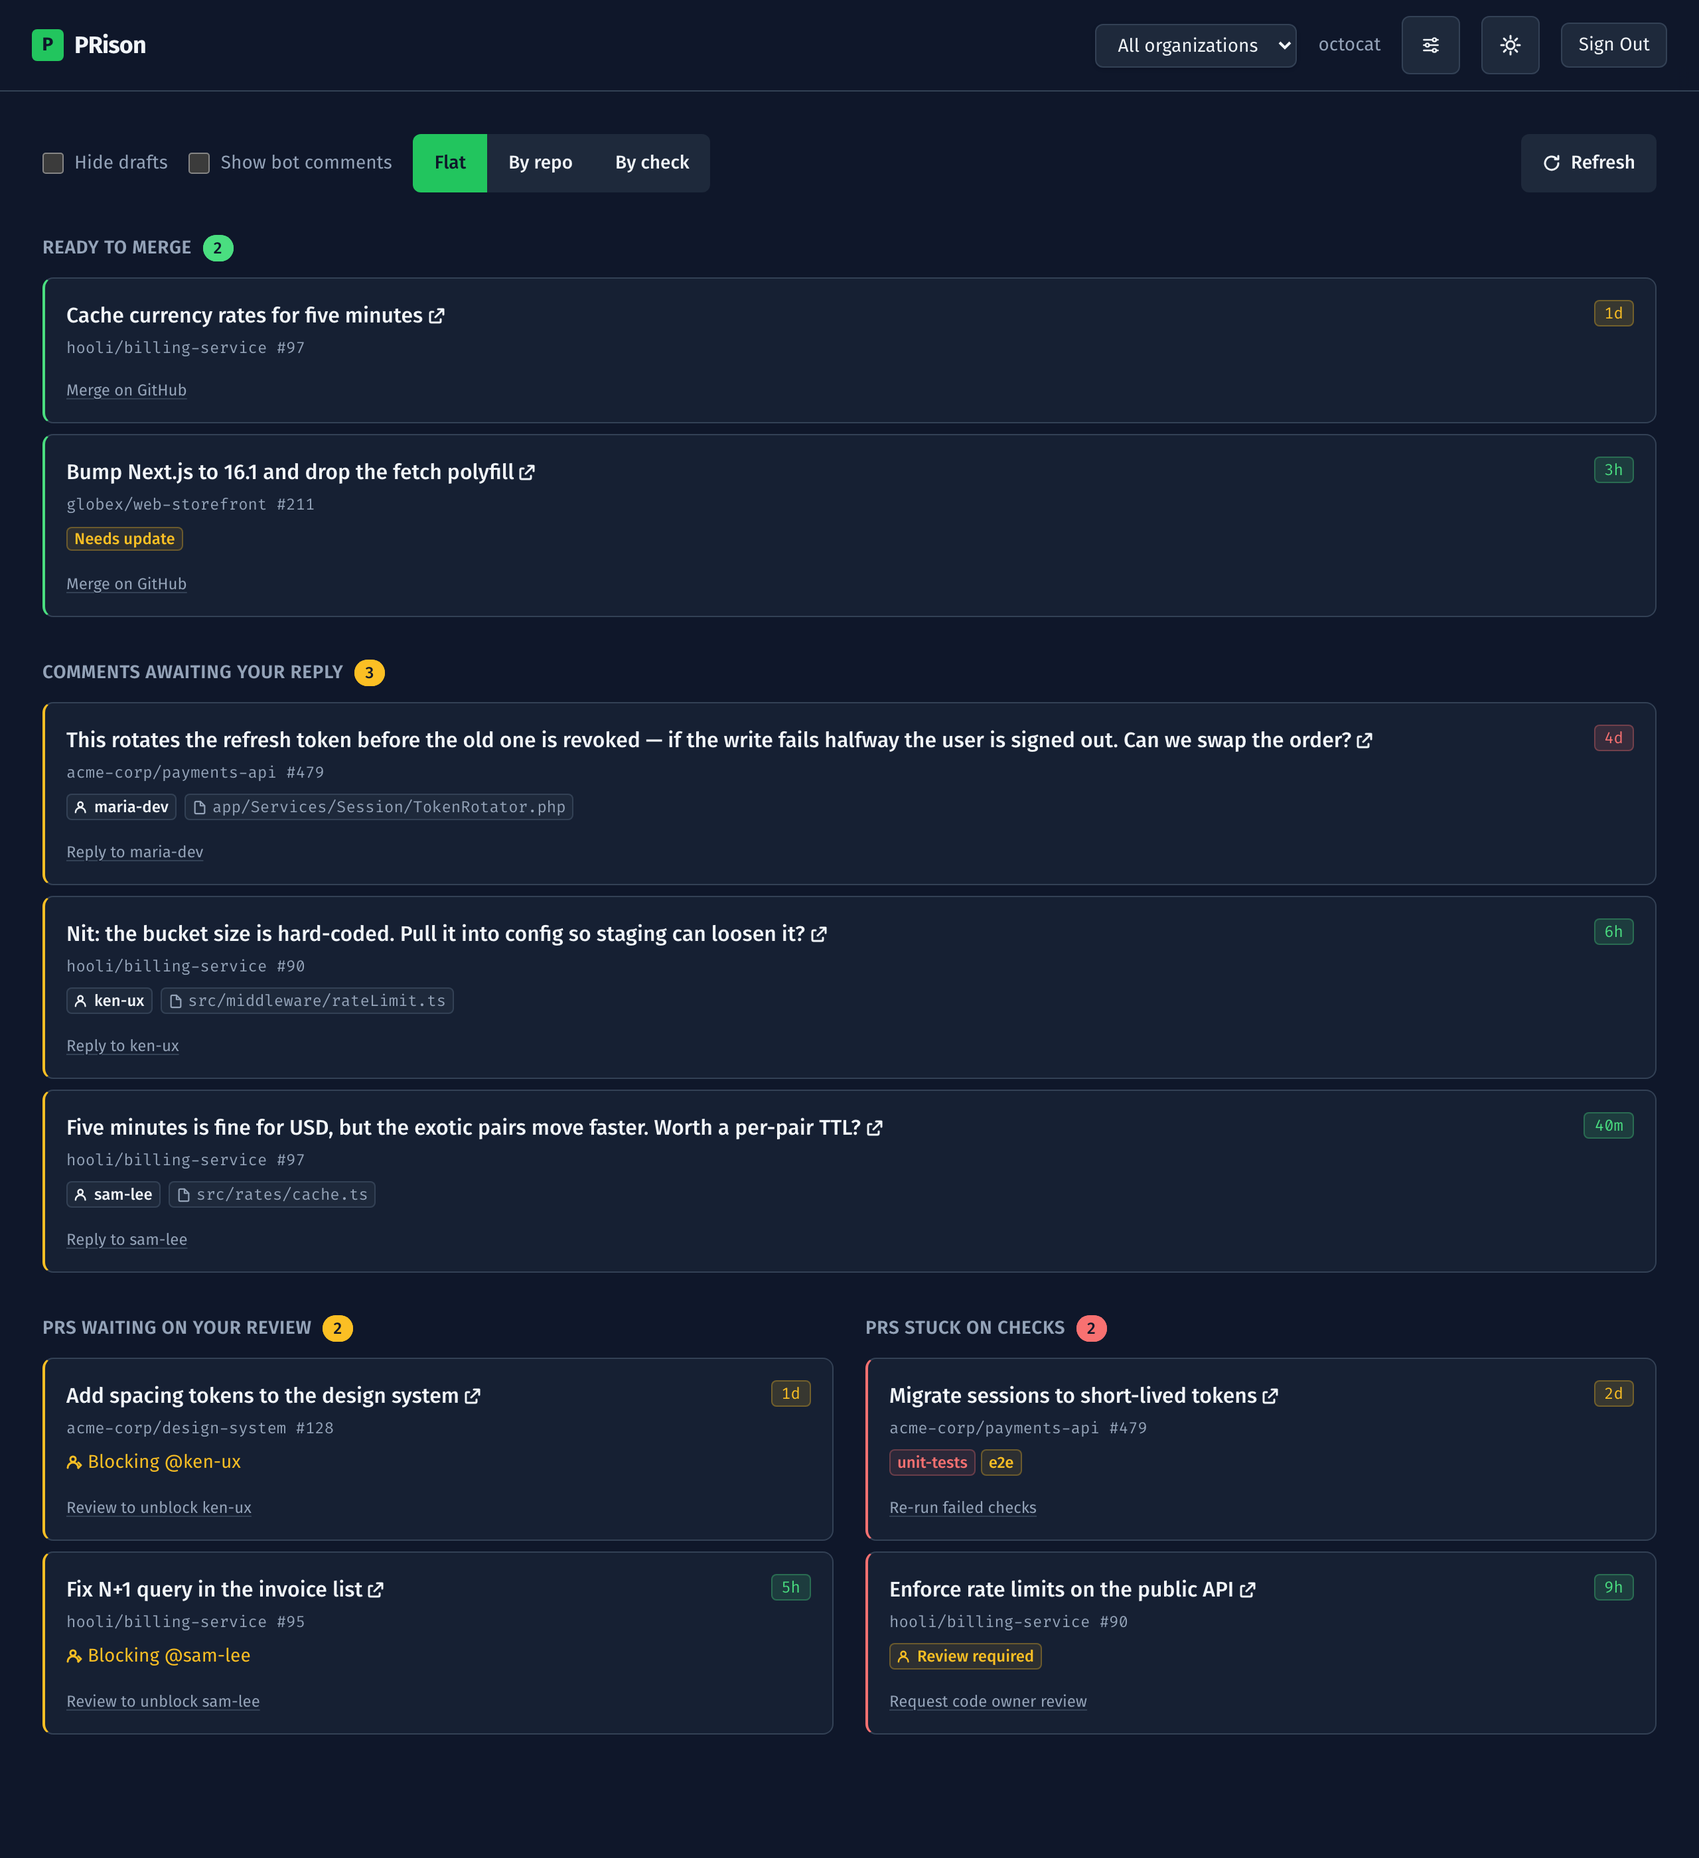
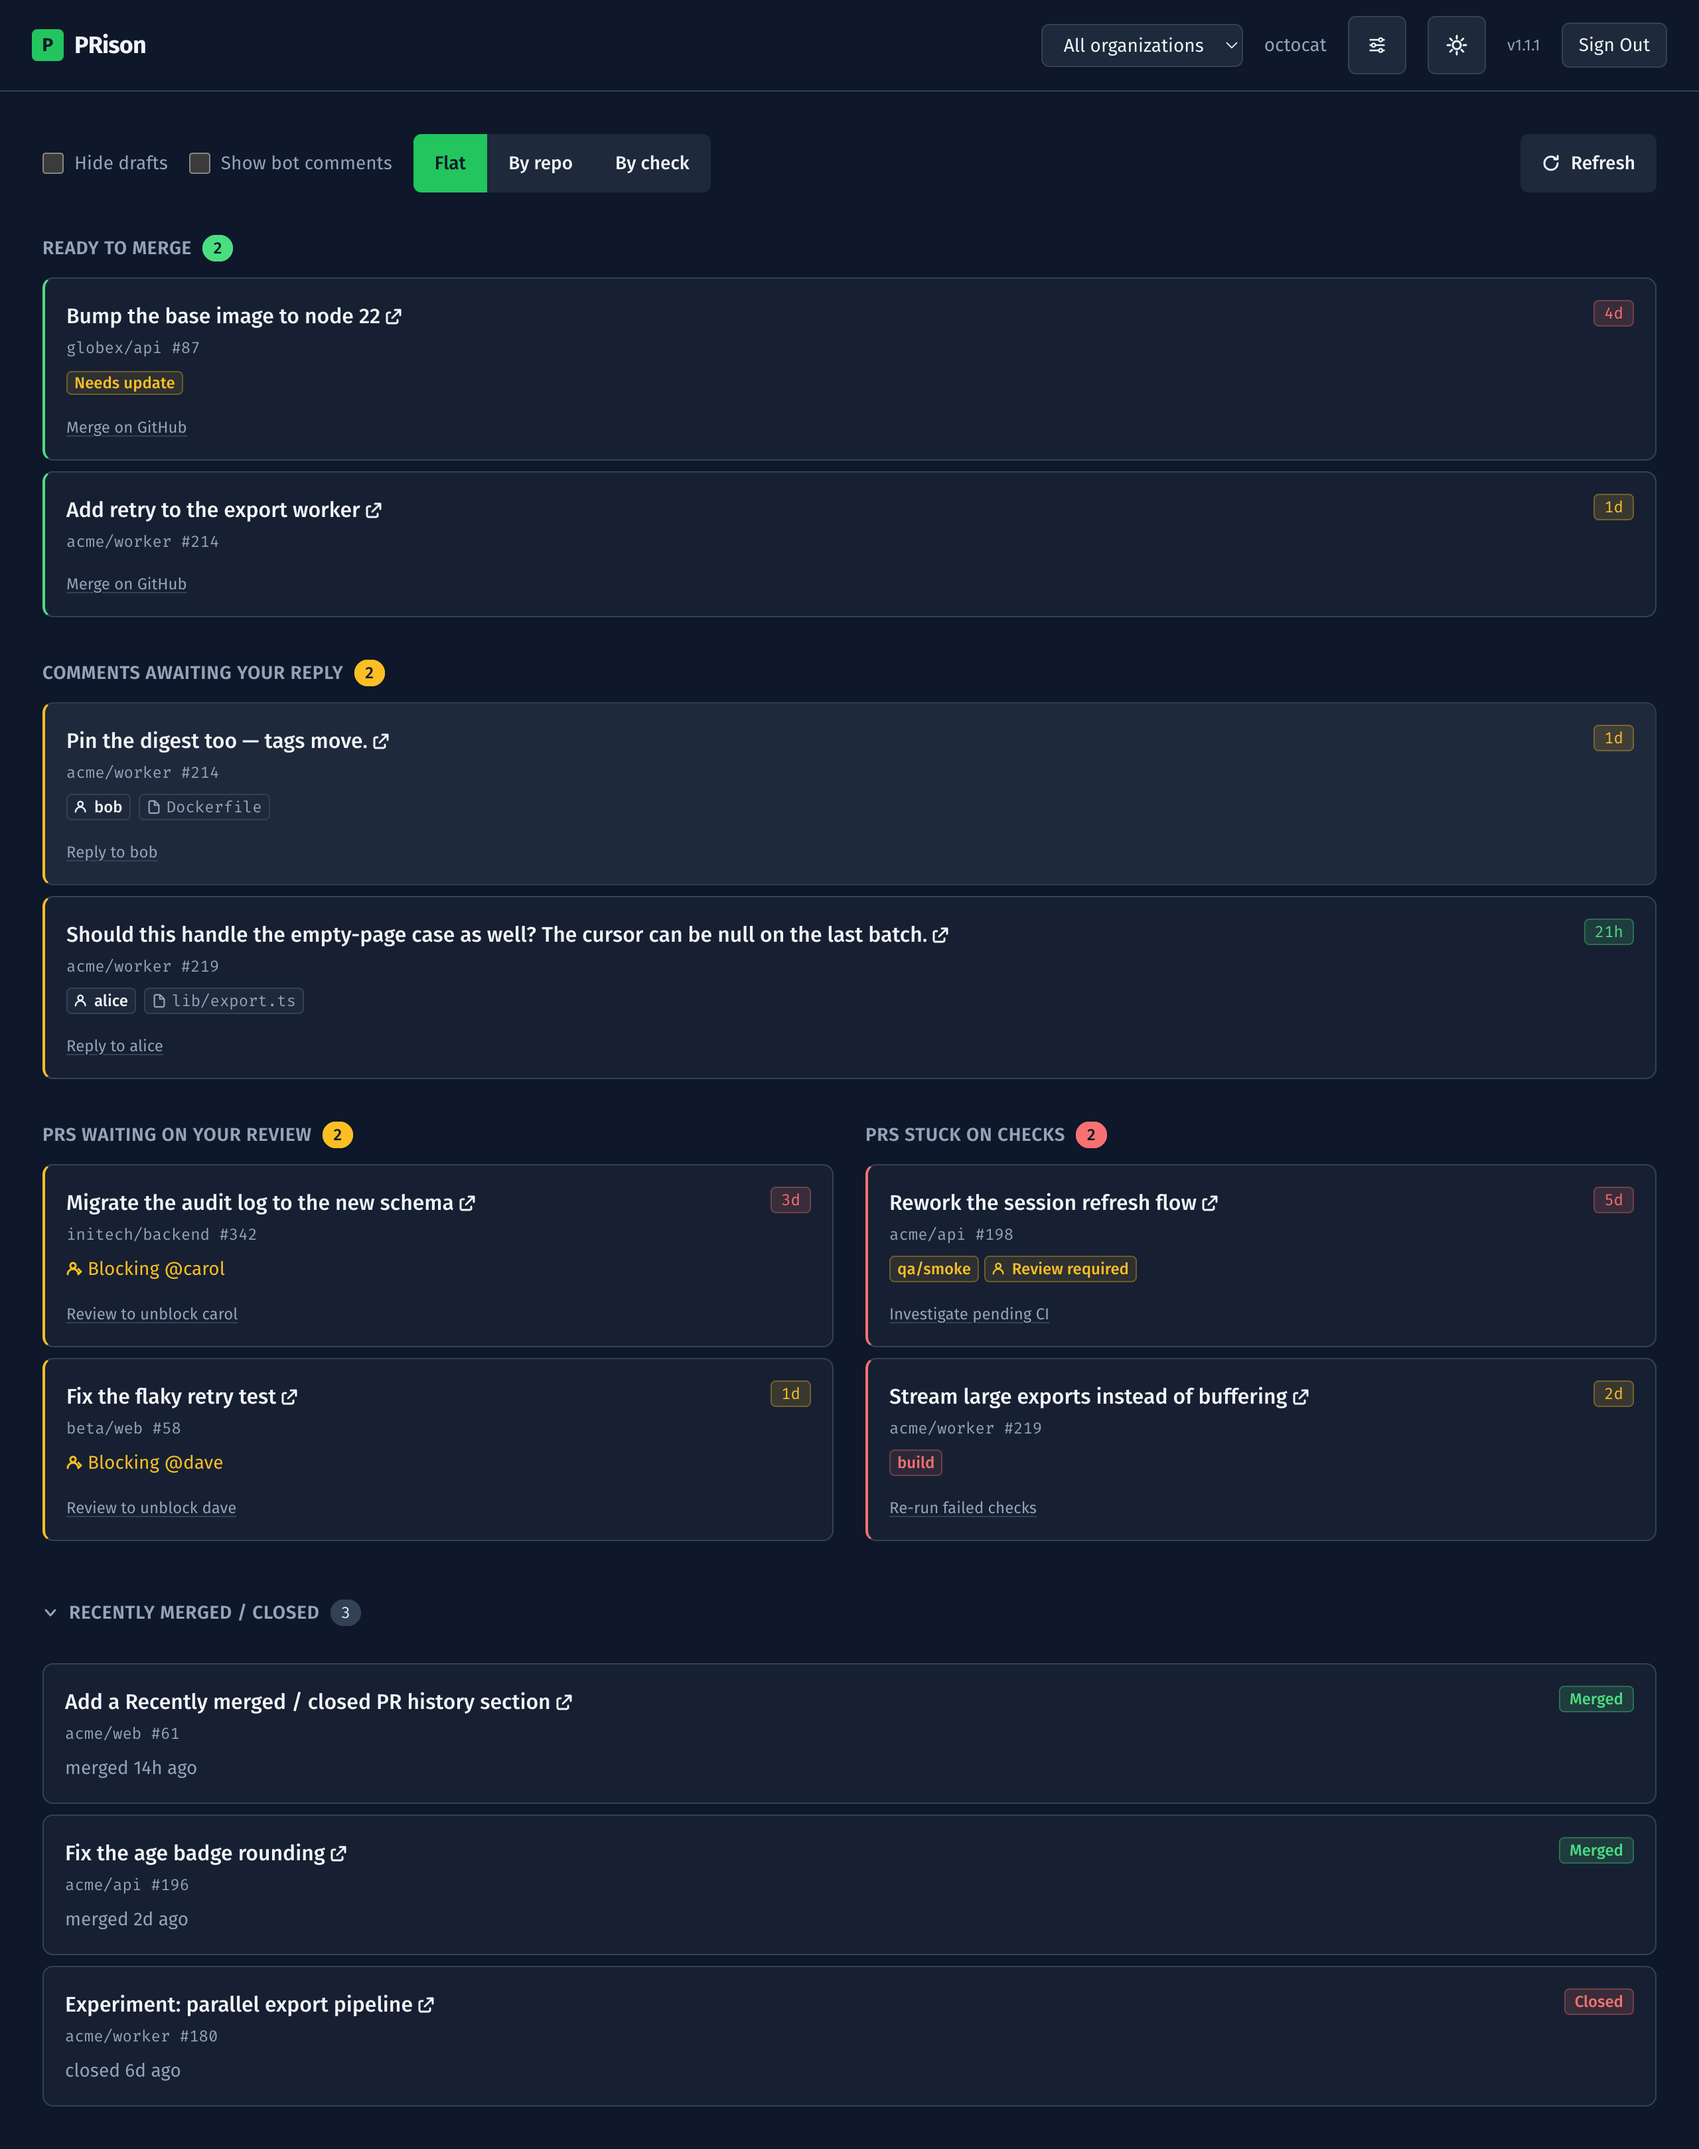
docs: cover the Recently merged / closed section and refresh the screenshot
The README still described four lists; add the history section (v1.1.0) to
the intro and features, mention the partial-data notice, and regenerate
docs/screenshot.png with generic dummy data showing all five sections in
dark mode.

diff --git a/README.md b/README.md
@@ -7,7 +7,7 @@
 
 A read-only GitHub dashboard that shows which pull requests need your attention,
 and for how long — across your personal account and every organization you can
-access. Four lists, oldest first:
+access. Four lists, oldest first, plus a history section:
 
 - **Ready to merge** — PRs GitHub reports as mergeable now. Out-of-date branches
   still count and get a **"Needs update"** hint (a bot/manual update handles them).
@@ -16,8 +16,11 @@ access. Four lists, oldest first:
 - **Waiting on your review** — PRs you're blocking others on.
 - **Stuck on checks** — your open PRs with failing/pending checks, or otherwise
   blocked from merging (required checks, review, or conflicts).
+- **Recently merged / closed** — your own PRs that were merged or closed, newest
+  first, so finished work confirms itself. Collapsed by default with a count;
+  expands to the latest 15 with **Load more** for the rest.
 
-![The PRison dashboard showing the four PR lists in dark mode](docs/screenshot.png)
+![The PRison dashboard showing the four PR lists and the recently merged / closed history in dark mode](docs/screenshot.png)
 
 ### Features
 
@@ -32,7 +35,12 @@ access. Four lists, oldest first:
   checks you care about — org defaults plus per-repo overrides, with a
   type-to-search repo picker — and PRison shows them as **"⏳ Awaiting: &lt;name&gt;"**
   on a blocked PR until they report.
+- **Recently merged / closed history.** Merged and closed-without-merging PRs,
+  each badged **Merged** or **Closed** with how long ago it ended.
 - **Grouping** — flat, by repository, or by check.
+- **Partial-data notice.** When GitHub drops part of a response (an org restricts
+  the token, a search times out), a banner says so instead of silently showing
+  less — with a Retry button, like every failed list.
 - **Light / dark theme**, responsive two-column layout, minute-level ages,
   color-coded lists, and a Refresh button.
 - **Personal account + per-org filter** in the top-right switcher.
